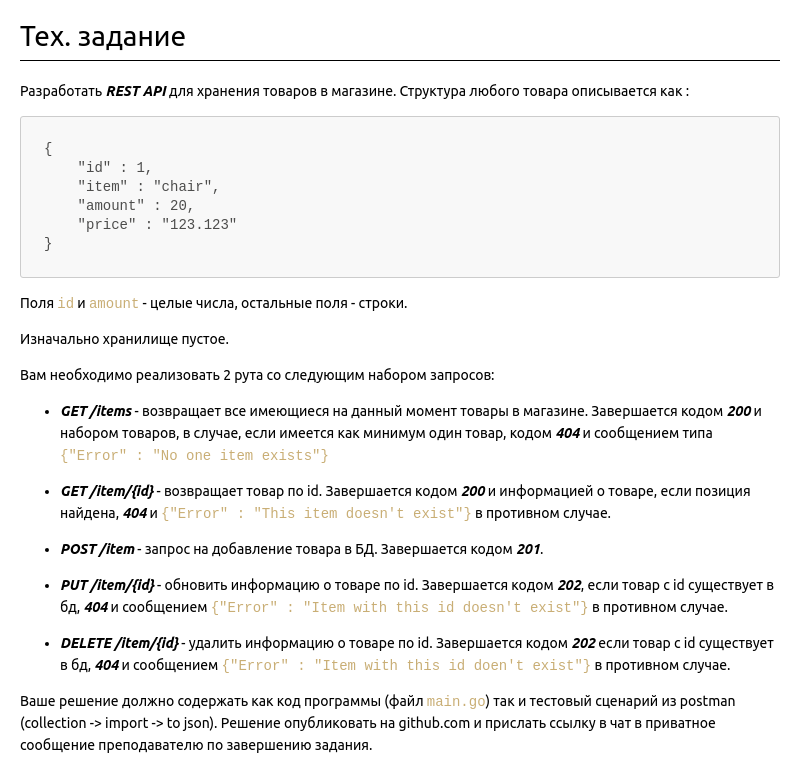
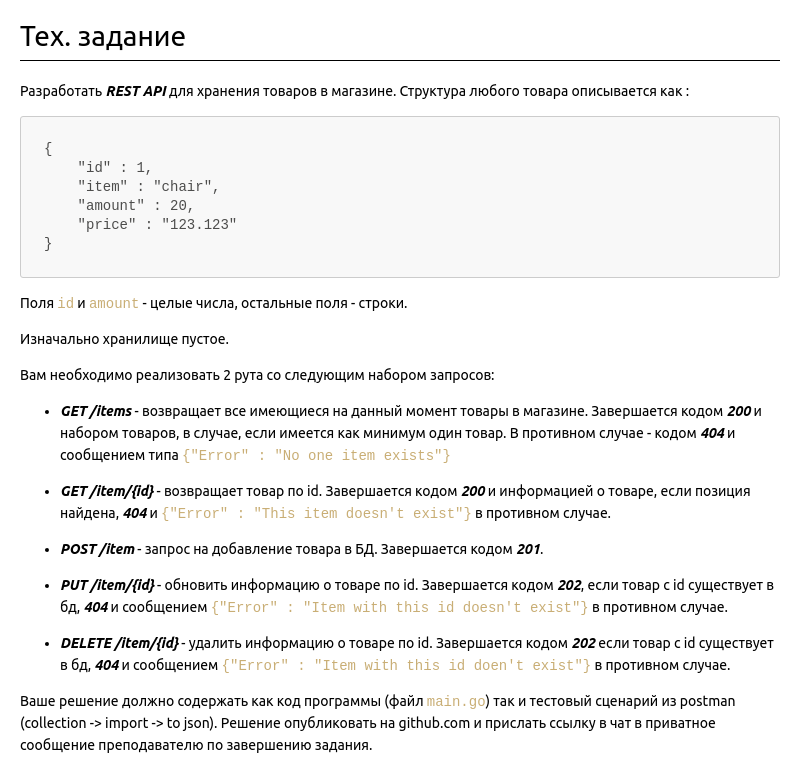
update tasks.md

diff --git a/lec4/tasks.html b/lec4/tasks.html
@@ -380,8 +380,8 @@ code {
 <p>Вам необходимо реализовать 2 рута со следующим набором запросов:</p>
 <ul>
 <li>
-<p><em><strong>GET /items</strong></em> - возвращает все имеющиеся на данный момент товары в магазине. Завершается кодом <em><strong>200</strong></em> и набором товаров, в случае, если имеется как минимум один товар,
-кодом <em><strong>404</strong></em> и сообщением типа <code>{&quot;Error&quot; : &quot;No one item exists&quot;}</code></p>
+<p><em><strong>GET /items</strong></em> - возвращает все имеющиеся на данный момент товары в магазине. Завершается кодом <em><strong>200</strong></em> и набором товаров, в случае, если имеется как минимум один товар.
+В противном случае - кодом <em><strong>404</strong></em> и сообщением типа <code>{&quot;Error&quot; : &quot;No one item exists&quot;}</code></p>
 </li>
 <li>
 <p><em><strong>GET /item/{id}</strong></em> - возвращает товар по id. Завершается кодом <em><strong>200</strong></em> и информацией о товаре, если позиция найдена, <em><strong>404</strong></em> и <code>{&quot;Error&quot; : &quot;This item doesn't exist&quot;}</code> в противном случае.</p>

diff --git a/lec4/tasks.md b/lec4/tasks.md
@@ -15,8 +15,8 @@
 Изначально хранилище пустое.
 
 Вам необходимо реализовать 2 рута со следующим набором запросов:
-* ***GET /items*** - возвращает все имеющиеся на данный момент товары в магазине. Завершается кодом ***200*** и набором товаров, в случае, если имеется как минимум один товар,
-кодом ***404*** и сообщением типа ```{"Error" : "No one item exists"}```
+* ***GET /items*** - возвращает все имеющиеся на данный момент товары в магазине. Завершается кодом ***200*** и набором товаров, в случае, если имеется как минимум один товар.
+В противном случае - кодом ***404*** и сообщением типа ```{"Error" : "No one item exists"}```
 
 * ***GET /item/{id}*** - возвращает товар по id. Завершается кодом ***200*** и информацией о товаре, если позиция найдена, ***404*** и ```{"Error" : "This item doesn't exist"}``` в противном случае.
 
